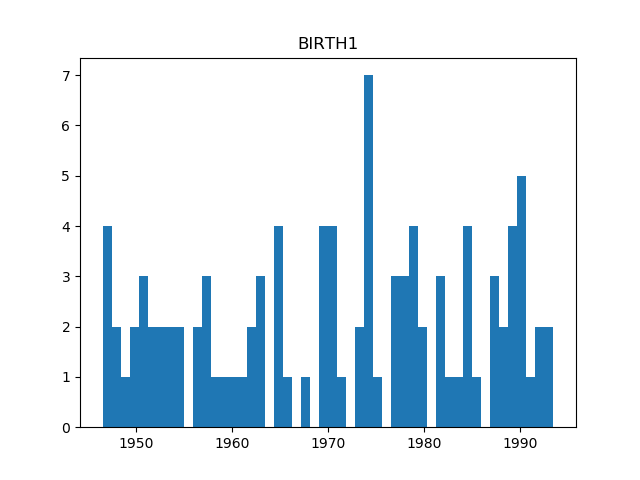
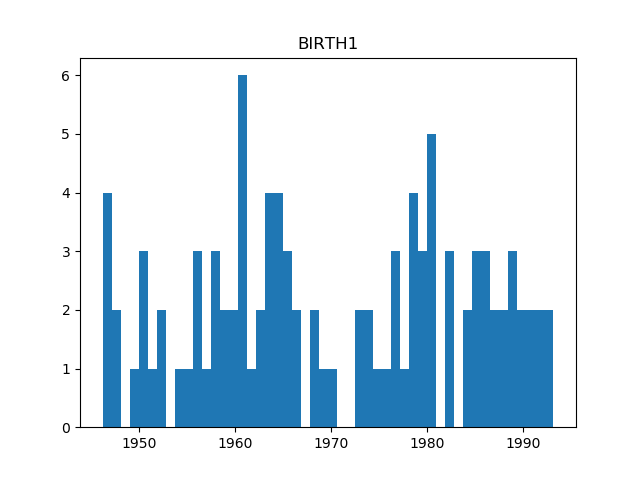
Final adjustments

diff --git a/randomizing.py b/randomizing.py
@@ -1,8 +1,7 @@
 from collections import defaultdict
 
-import matplotlib.pyplot as plt
-import matplotlib.ticker as plticker
 import matplotlib.dates as mdates
+import matplotlib.pyplot as plt
 import numpy as np
 from matplotlib.patches import Patch
 from pandas.plotting import register_matplotlib_converters
@@ -43,6 +42,7 @@ def plot_bundled(list_dict):
             axs[i % 5, i % 3].xaxis.set_major_formatter(mdates.DateFormatter('%Y'))
     fig.savefig('params_variation/{}.png'.format('Parameters variation'))
     fig.savefig('params_variation/{}.pdf'.format('Parameters variation'), format='pdf', transparent=True)
+    plt.show()
 
 
 def plot_params(list_dict):
@@ -54,7 +54,8 @@ def plot_params(list_dict):
         plt.hist(joined_params[k], bins=50)
         plt.title(k)
         plt.savefig('params_variation/{}.png'.format(k))
-        plt.show()
+        plt.savefig('params_variation/{}.pdf'.format(k), format='pdf', transparent=True)
+        # plt.show()
 
 
 def plot_hist(out):
@@ -81,8 +82,9 @@ def plot_hist(out):
     plt.grid(True, 'major', 'y', ls='--', lw=.5, c='k', alpha=.3)
     plt.tick_params(axis='both', which='both', bottom=True, top=False,
                     labelbottom=True, left=False, right=False, labelleft=True)
-    plt.savefig('randomization', bbox_inches='tight')
-    plt.show()
+    plt.savefig('randomization.png', bbox_inches='tight')
+    plt.savefig('randomization.pdf', format='pdf', transparent=True, bbox_inches='tight')
+    # plt.show()
 
 
 def main(size):
@@ -90,12 +92,15 @@ def main(size):
     l0 = creating_params(size)
     plot_params(l0)
     plot_bundled(l0)
-    # out = generalization.runs(l0)
-    # print(out)
-    # np.save('output_randomization', out)
-    # plot_hist(out)
+    out = generalization.runs(l0)
+    print(out)
+    np.save('output_randomization', out)
+    plot_hist(out)
+    perc = len([i for i in out if i > 0])
+    print('Renting is a better option in {:.2f}% of the {} cases simulated'.format(perc, size))
+    return out
 
 
 if __name__ == '__main__':
-    s = 100
-    main(s)
+    s = 10000
+    o = main(s)
